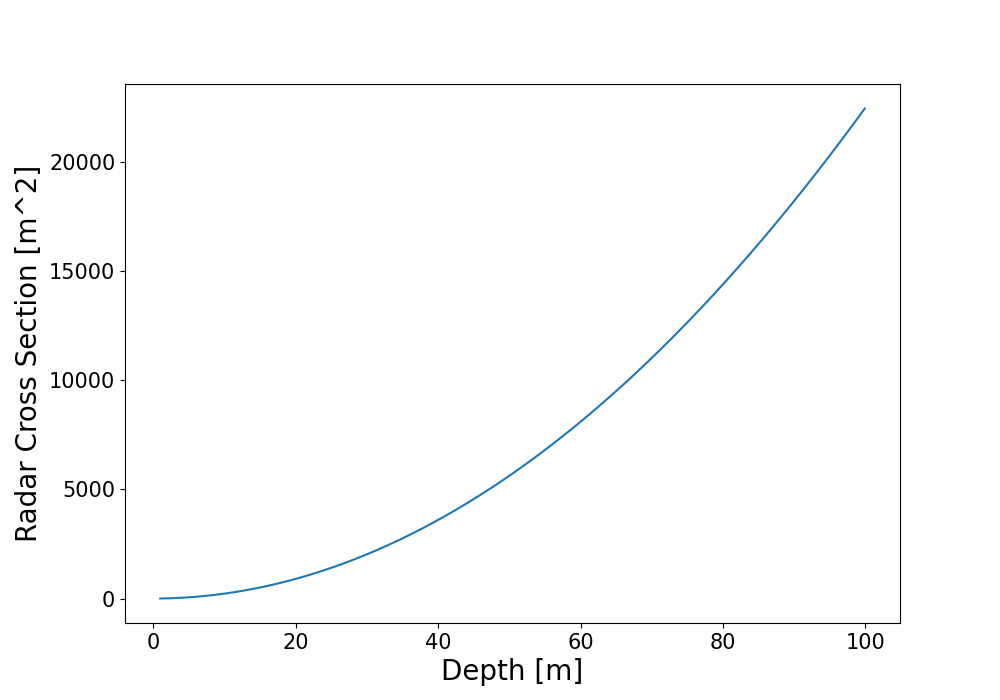
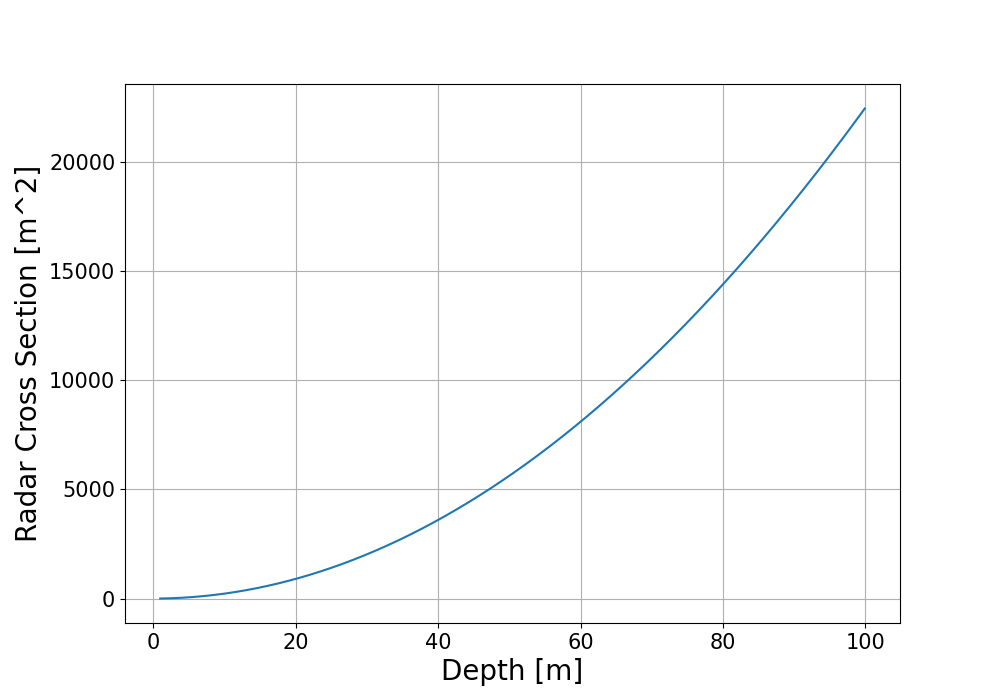
RCSのプロットにグリッドを追加

diff --git a/recieved_power_dB.py b/recieved_power_dB.py
@@ -131,12 +131,15 @@ def calc_Pr():
     # レーダー断面積のプロット
     plt.figure(figsize=(10, 7))
     plt.plot(depth, sigma2)
+
+
     plt.xlabel('Depth [m]', size = 20)
     plt.ylabel('Radar Cross Section [m^2]', size = 20)
     plt.tick_params(axis='both', labelsize=15)
+    plt.grid()
 
     plt.savefig('output_recieved_power/radar_cross_section.png')
-    #plt.show()
+    plt.show()
     
 
 
